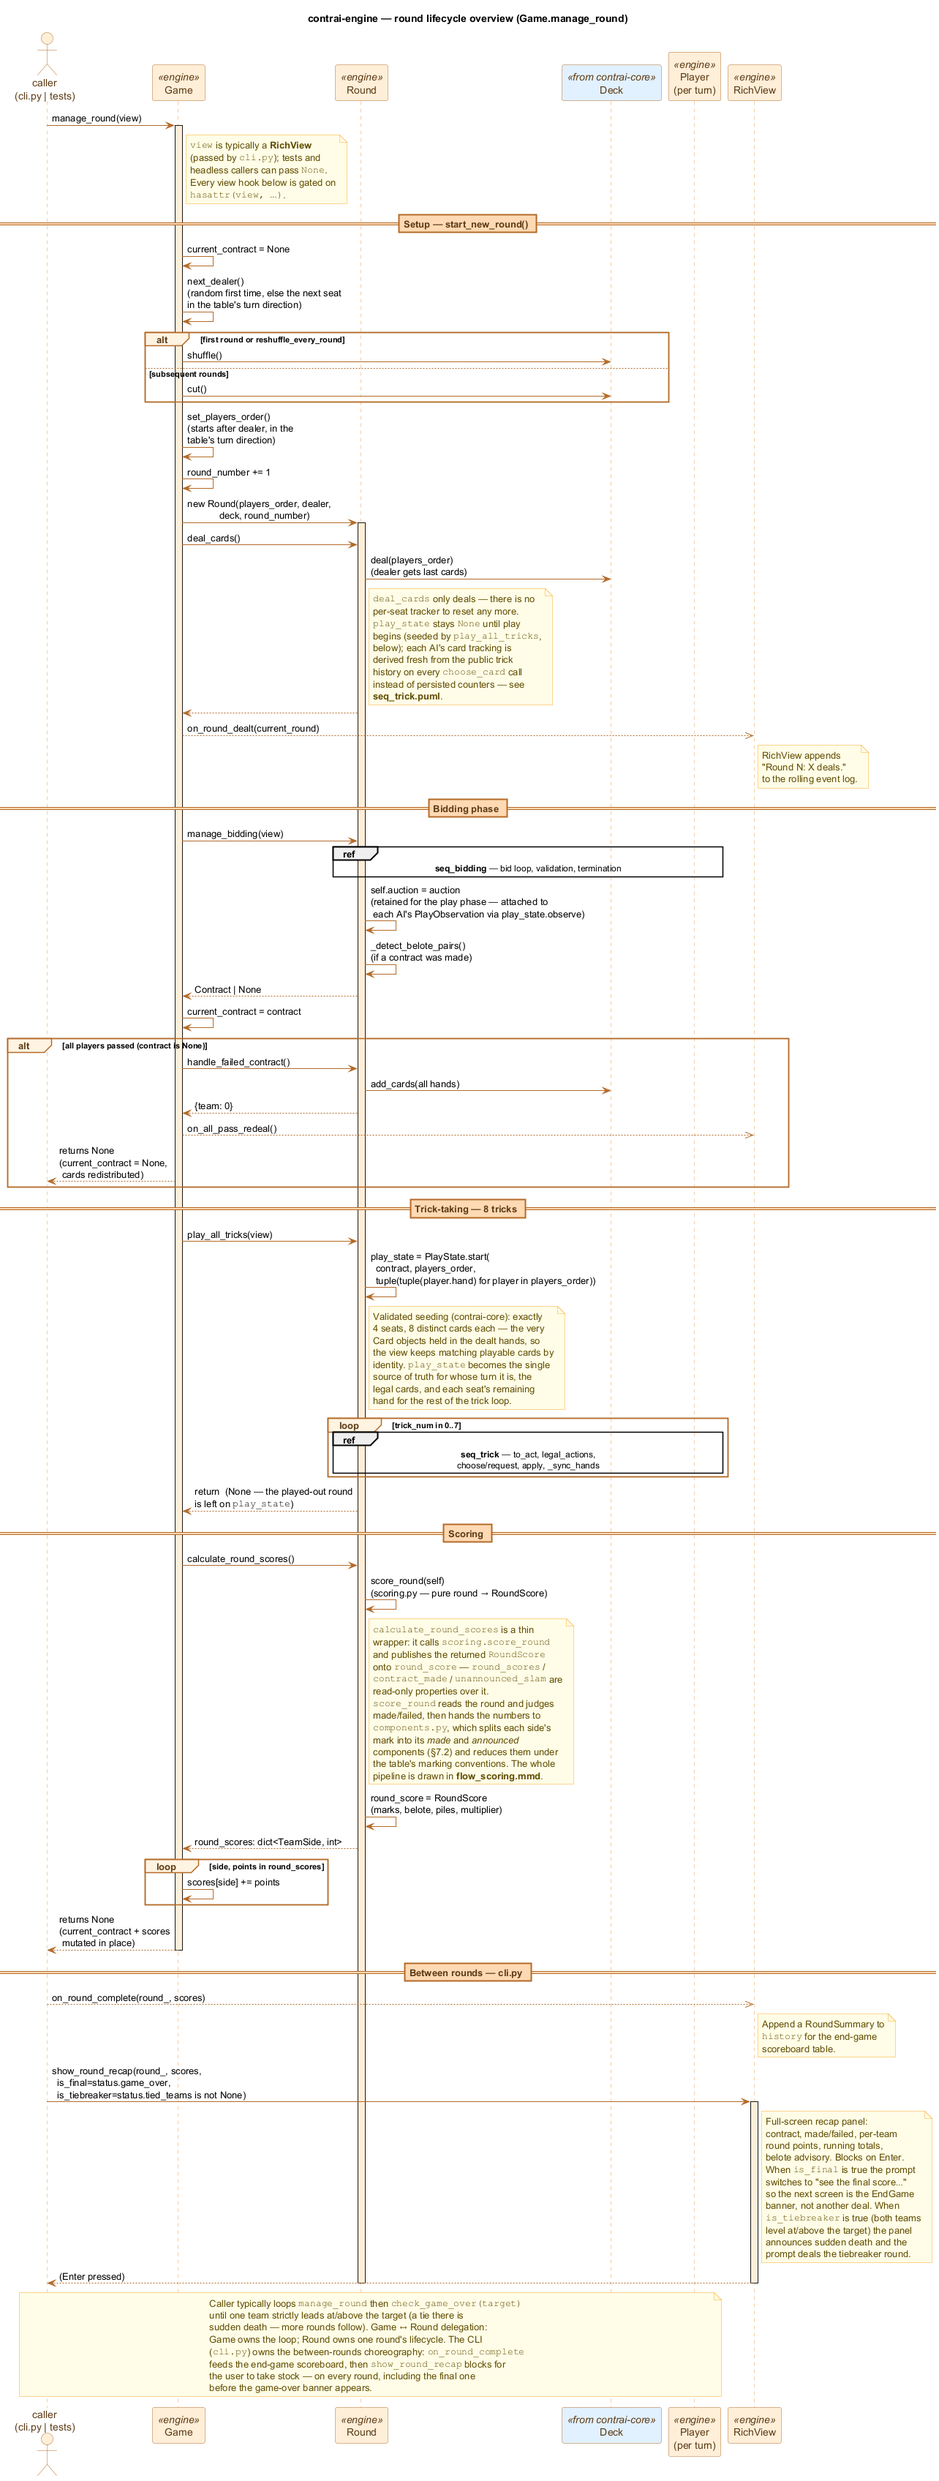
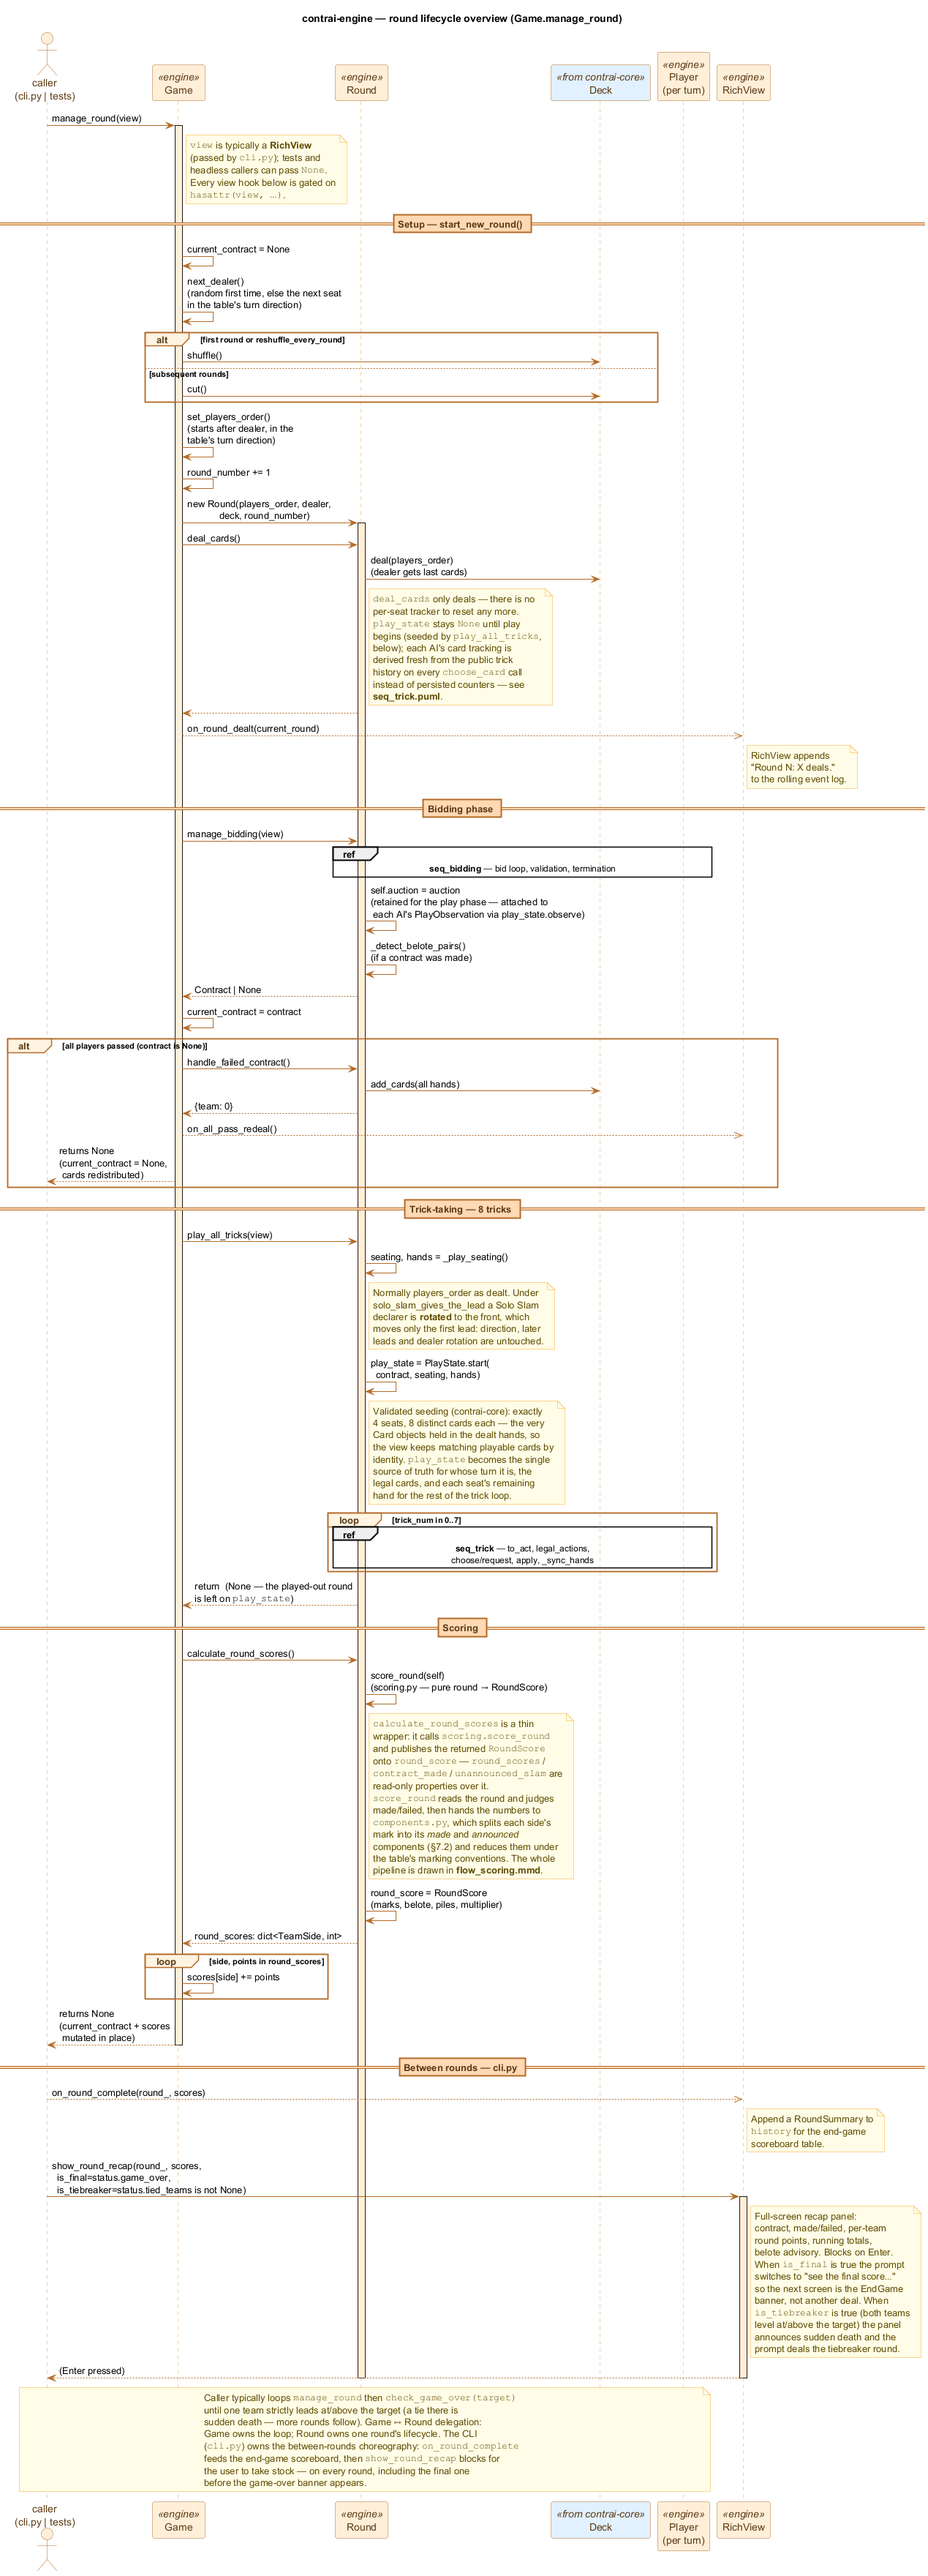
feat(engine): give the Solo Slam declarer the opening lead
The lead normally belongs to the seat after the dealer whoever took the
contract, and §9.5's option hands it to a Solo Slam declarer instead.
`_play_seating` applies it by rotating the play order onto the declarer
rather than rebuilding it: the play state steps forward through the tuple
it is handed, so a rotation moves the lead and nothing else — direction,
later leads and dealer rotation all stay as they were. The round's own
`players_order`, which the deal and the auction speak, is untouched.

diff --git a/packages/contrai-engine/src/contrai_engine/model/round/round.py b/packages/contrai-engine/src/contrai_engine/model/round/round.py
@@ -22,6 +22,7 @@ from .scoring import RoundScore, UnannouncedSlam, score_round
 
 if TYPE_CHECKING:
     from ..player import Player
+    from contrai_core.card import Card
     from contrai_core.team import Team
     from contrai_core.deck import Deck
 
@@ -401,6 +402,42 @@ class Round:
             player.hand.clear()
             player.hand.extend(self.play_state.hand_of(player))
 
+    def _play_seating(
+        self,
+    ) -> tuple[tuple[Player, ...], tuple[tuple[Card, ...], ...]]:
+        """The seating and hands to seed this round's play state with.
+
+        Normally the round's own :attr:`players_order` — the seat after
+        the dealer leads trick 1 whichever team took the contract (§6).
+        Under the table option *the Solo Slam gives the lead* the
+        declarer of a Solo Slam opens instead, which is applied by
+        **rotating** the order onto them rather than rebuilding it: the
+        play state steps forward through the tuple it is handed, so a
+        rotation moves the lead and leaves everything else alone —
+        play still runs in the table's direction, later tricks are still
+        led by their winners, and the next dealer is still the seat after
+        this one.
+
+        Returns:
+            The seats in play order and their hands, parallel tuples
+            ready for :meth:`~contrai_core.PlayState.start`.
+        """
+
+        seating = list(self.players_order)
+        if (
+            self.rules.solo_slam_gives_the_lead
+            and self.contract is not None
+            and self.contract.is_solo_slam()
+        ):
+            declarer = self.contract.player
+            if declarer in seating:
+                pivot = seating.index(declarer)
+                seating = seating[pivot:] + seating[:pivot]
+        return (
+            tuple(seating),
+            tuple(tuple(player.hand) for player in seating),
+        )
+
     def _trick_after_play(self) -> Sequence[Play]:
         """The trick on the table, read **after** a card has been applied.
 
@@ -443,10 +480,11 @@ class Round:
         # mirroring the Auction idiom — since a directly injected mid-round
         # hand need not hold the full 8 cards.
         if self.play_state is None:
+            seating, hands = self._play_seating()
             self.play_state = PlayState(
                 self.contract,
-                tuple(self.players_order),
-                tuple(tuple(player.hand) for player in self.players_order),
+                seating,
+                hands,
                 rules=self.rules,
             )
 
@@ -561,10 +599,11 @@ class Round:
         # validated start (4 seats, 8 distinct cards each). The very Card
         # objects held in the players' hands flow into it, so the view can
         # keep matching playable cards by identity.
+        seating, hands = self._play_seating()
         self.play_state = PlayState.start(
             self.contract,
-            tuple(self.players_order),
-            tuple(tuple(player.hand) for player in self.players_order),
+            seating,
+            hands,
             rules=self.rules,
         )
 

diff --git a/packages/contrai-engine/tests/test_model/test_round.py b/packages/contrai-engine/tests/test_model/test_round.py
@@ -27,7 +27,7 @@ import pytest
 
 from contrai_core import Hand, Position
 from contrai_core.auction import Auction
-from contrai_core.bid import ContractBid, DoubleBid, PassBid
+from contrai_core.bid import ContractBid, DoubleBid, PassBid, SlamLevel
 from contrai_core.card import Card
 from contrai_core.contract import Contract
 from contrai_core.deck import Deck
@@ -1065,3 +1065,58 @@ class TestTrickCompletedLogging:
             for record in caplog.records
         )
 
+
+
+class TestSoloSlamGivesTheLead:
+    """§6 / §9.5 — off by default; on, the declarer opens trick 1."""
+
+    def _round(self, players, contract_value, rules):
+        """A round dealt in N/E/S/W order whose contract belongs to E."""
+        order = [players[s] for s in ("N", "E", "S", "W")]
+        round_ = Round(
+            order, dealer=players["N"], deck=Deck(), round_number=1, rules=rules
+        )
+        round_.deal_cards()
+        round_.contract = _contract(players["E"], contract_value, Suit.SPADES)
+        return round_
+
+    def test_the_seat_after_the_dealer_leads_by_default(self, players):
+        round_ = self._round(players, SlamLevel.SOLO_SLAM, RuleConfig())
+        seating, _hands = round_._play_seating()
+        assert seating[0] is round_.players_order[0]
+
+    def test_the_declarer_leads_when_the_option_is_on(self, players):
+        rules = RuleConfig(solo_slam_gives_the_lead=True)
+        round_ = self._round(players, SlamLevel.SOLO_SLAM, rules)
+        seating, hands = round_._play_seating()
+        assert seating[0] is players["E"]
+        # A rotation, not a rebuild: the cyclic order is preserved, so
+        # play still runs in the table's direction.
+        assert list(seating) == [
+            players["E"], players["S"], players["W"], players["N"]
+        ]
+        # Hands stay parallel to seats.
+        assert hands[0] == tuple(players["E"].hand)
+
+    def test_a_plain_slam_does_not_take_the_lead(self, players):
+        rules = RuleConfig(solo_slam_gives_the_lead=True)
+        round_ = self._round(players, SlamLevel.SLAM, rules)
+        seating, _hands = round_._play_seating()
+        assert seating[0] is round_.players_order[0]
+
+    def test_a_numeric_contract_does_not_take_the_lead(self, players):
+        rules = RuleConfig(solo_slam_gives_the_lead=True)
+        round_ = self._round(players, 100, rules)
+        seating, _hands = round_._play_seating()
+        assert seating[0] is round_.players_order[0]
+
+    def test_play_all_tricks_seeds_the_state_on_the_declarer(self, players):
+        rules = RuleConfig(solo_slam_gives_the_lead=True)
+        round_ = self._round(players, SlamLevel.SOLO_SLAM, rules)
+        for player in round_.players_order:
+            player.choose_card = (
+                lambda observation: observation.legal_cards[0]
+            )
+        round_.play_all_tricks()
+        assert round_.play_state.is_terminal()
+        assert round_.play_state.plays[0].player is players["E"]

diff --git a/docs/engine/index.md b/docs/engine/index.md
@@ -269,6 +269,8 @@ The `RuleConfig` a `Game` is built under is threaded down to `Round` and `PlaySt
 
 **The target score** (§9.1) is a table rule too, and no longer a view constant. `theme.TARGET_OPTIONS` is now one row per value of core's `TARGET_SCORES` — the ladder `RuleConfig` validates against — so the radio and the ruleset can never disagree about what is selectable; the label and the time estimate beside each value are the only presentation left in that table, and `DEFAULT_TARGET` derives from `RuleConfig().target_score`, which is **2000**, not the 1500 the view used to assert. `Game.check_game_over()` reads the number off `rules` and takes no argument at all, so there is no way to ask the question against a different target than the one the game is being played to.
 
+**The Solo Slam declarer's lead** (§9.5, off by default) moves the *first* lead and nothing else. The opening lead normally belongs to the seat after the dealer whichever team took the contract; switched on, a Solo Slam declarer opens trick 1 instead. `Round._play_seating()` applies it by **rotating** the play order onto the declarer rather than rebuilding it, and that distinction is the whole design: `PlayState` steps `+1` through the tuple it is handed, so a rotation preserves the cyclic order. Play therefore still runs in the table's direction, later tricks are still led by whoever won the previous one, and the next dealer is still the seat after this one. The round's own `players_order` — the order the deal and the auction speak — is left untouched; only what the play state is *seeded* with rotates. Both seeding sites (`play_all_tricks` and `play_trick`'s lazy guard) go through the one helper, so they cannot disagree.
+
 ## Open work
 
 - The round test suite mirrors the `model/round/` split (sharing the `players` fixture in `tests/test_model/conftest.py`): `test_components.py` pins the §7.2 grids as pure arithmetic — every table the domain reference prints, reproduced as a parametrize list, with no `Round` and no `PlayState` in sight; `test_round_scoring.py` covers the `scoring.score_round` grid (numeric / unannounced-Slam / doubled / Slam-family) plus a direct `RoundScore`/`score_round` purity check and the `Round.round_score` publishing surface; `test_round.py` keeps the orchestrator concerns — `play_trick`'s `IllegalPlayError` raise on an illegal card (`TestPlayTrickRejectsIllegalCard`), the lazy `PlayState` seeding guard and the validated `play_all_tricks` seeding (`TestPlayStateSeeding`), `_sync_hands` mirroring and card-identity flow-through (`TestSyncHandsMirrorsPlayState`, `TestCardIdentityFlowsFromSeed`), the retained auction (`TestAuctionRetention`), the `PlayObservation` each AI seat is handed (`TestPlayTrickHandsObservation`), the belote tracking helpers, and the auction-driven integration test that the human seat is never prompted when their partner has doubled (`TestManageBiddingAutoPasses`); and `test_round_lifecycle.py` backfills the full end-to-end path — `deal_cards` → `manage_bidding` → `play_all_tricks` → `calculate_round_scores` — on a fully stacked deck with four `AiPlayer` seats and no view, pinning both a scoring invariant and a concrete regression split.

diff --git a/CHANGELOG.md b/CHANGELOG.md
@@ -29,6 +29,7 @@ All four workspace packages (`contrai-core`, `contrai-engine`, `contrai-analyzer
 - (engine) `turn_direction` — dealer rotation, bidding order and the opening lead all run clockwise when the table asks. See [engine docs](docs/engine/index.md).
 - (engine) `reshuffle_every_round` — the deck is shuffled before every deal instead of merely cut.
 - (engine) The landing picker offers all seven §9.1 targets and the chosen value lands on the ruleset the game is built under.
+- (engine) `solo_slam_gives_the_lead` — the Solo Slam declarer opens trick 1; play then continues in the normal order.
 
 ### Changed
 
